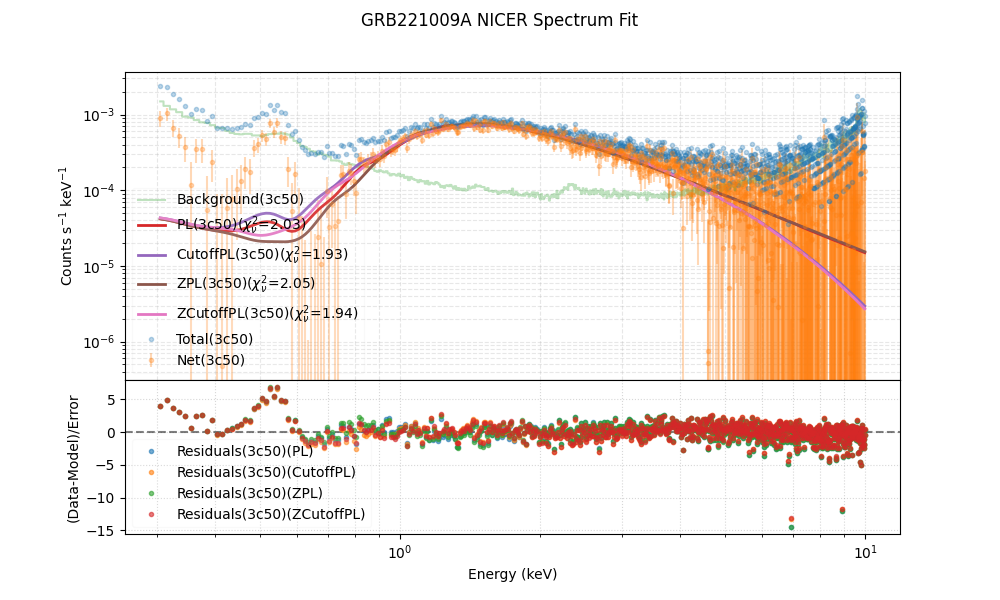
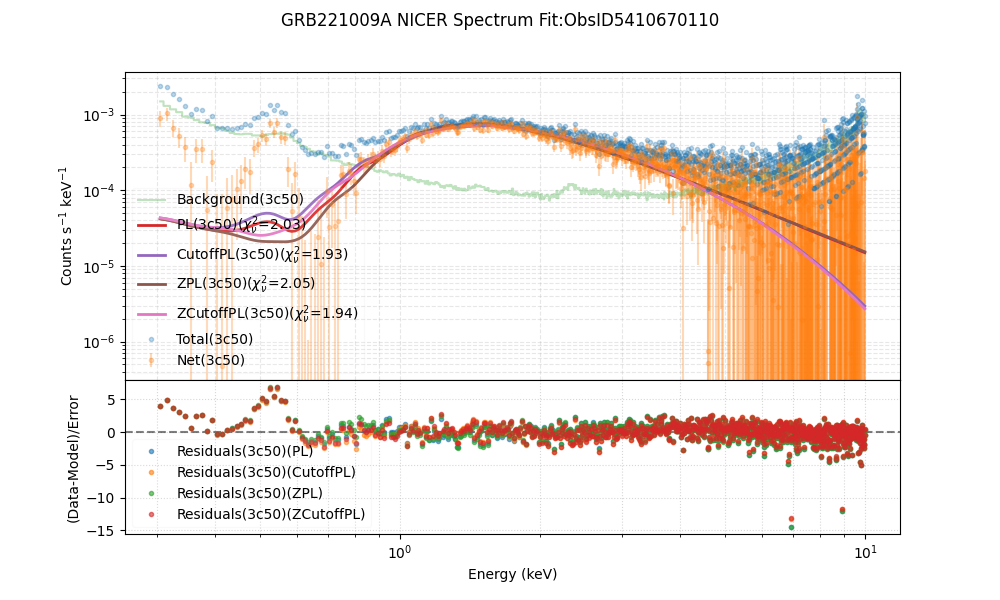
画像のtitleを変更。

Changed region(s): [[0.279, 0.0, 0.713, 0.06]]

diff --git a/scripts/20_spectrum.py b/scripts/20_spectrum.py
@@ -7,7 +7,7 @@ import csv
 
 ObsID = "5410670110"
 
-tf_scorpion = False
+tf_scorpion = True
 
 OUTPUT_DIR = f"results/{ObsID}"
 os.makedirs(OUTPUT_DIR, exist_ok=True)
@@ -170,7 +170,7 @@ for bkgtype in ["3c50", "scorpion"]:
       writer.writerow(['x_vals', 'y_tot', 'y_net', 'm_vals', 'y_err'])
       writer.writerows(row_data)
 
-fig.suptitle(f'GRB221009A NICER Spectrum Fit')
+fig.suptitle(f'GRB221009A NICER Spectrum Fit:ObsID{ObsID}')
 
 ax1.set_xscale('log')
 ax1.set_yscale('log')
